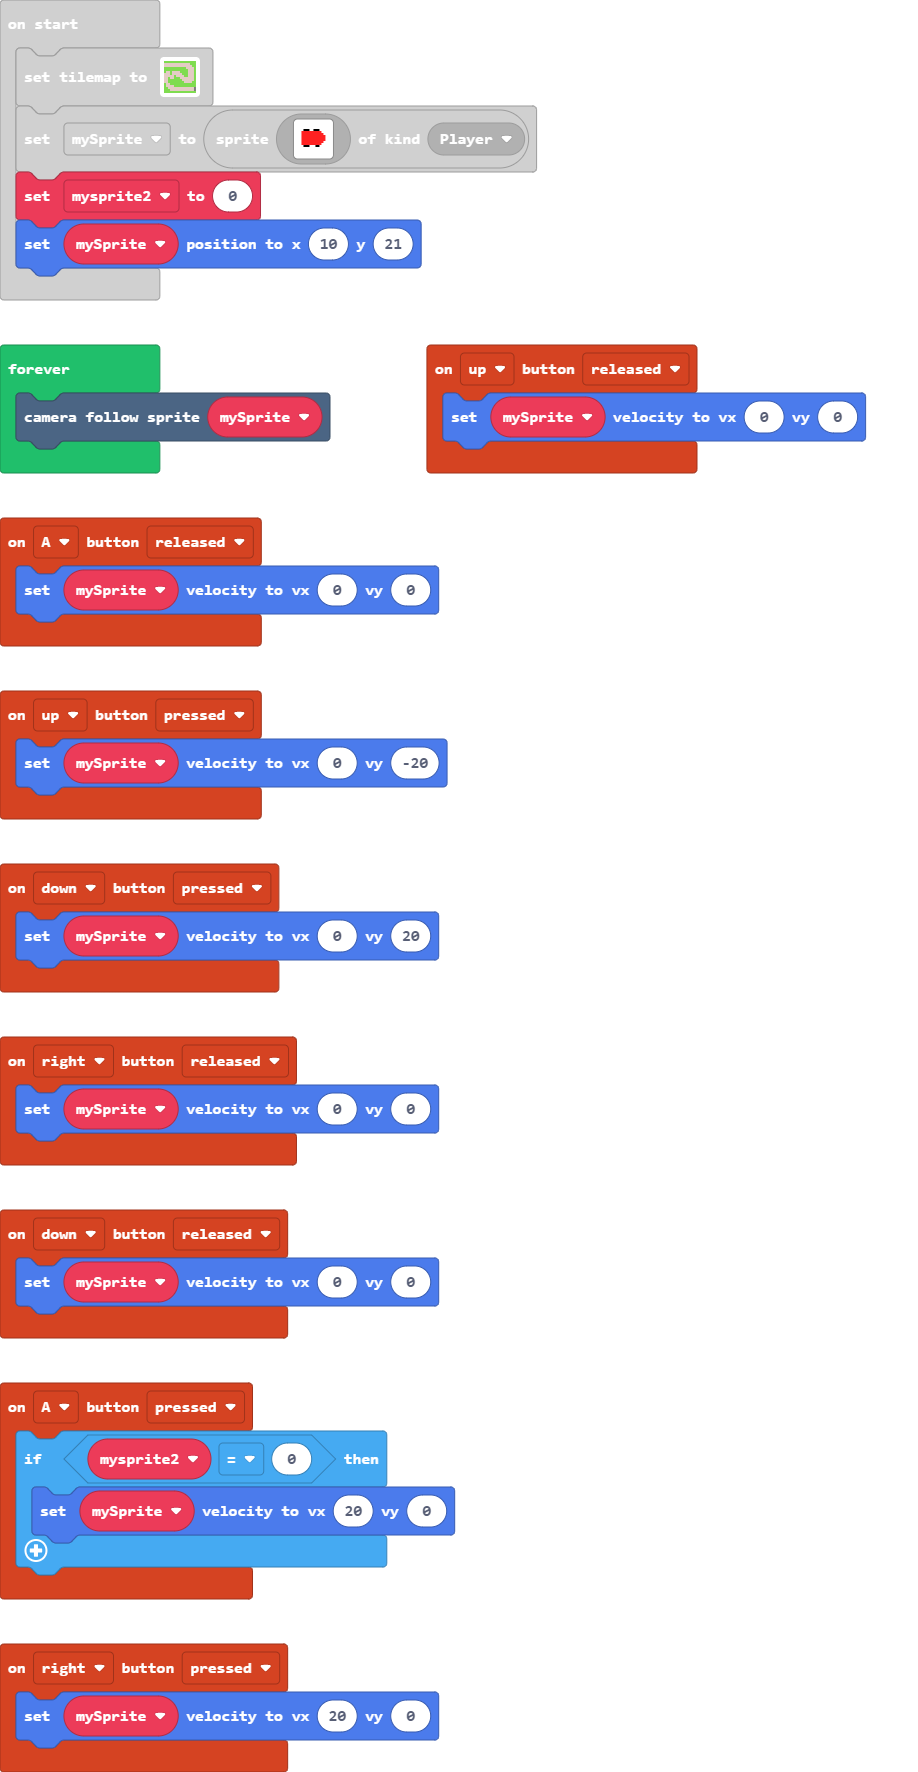
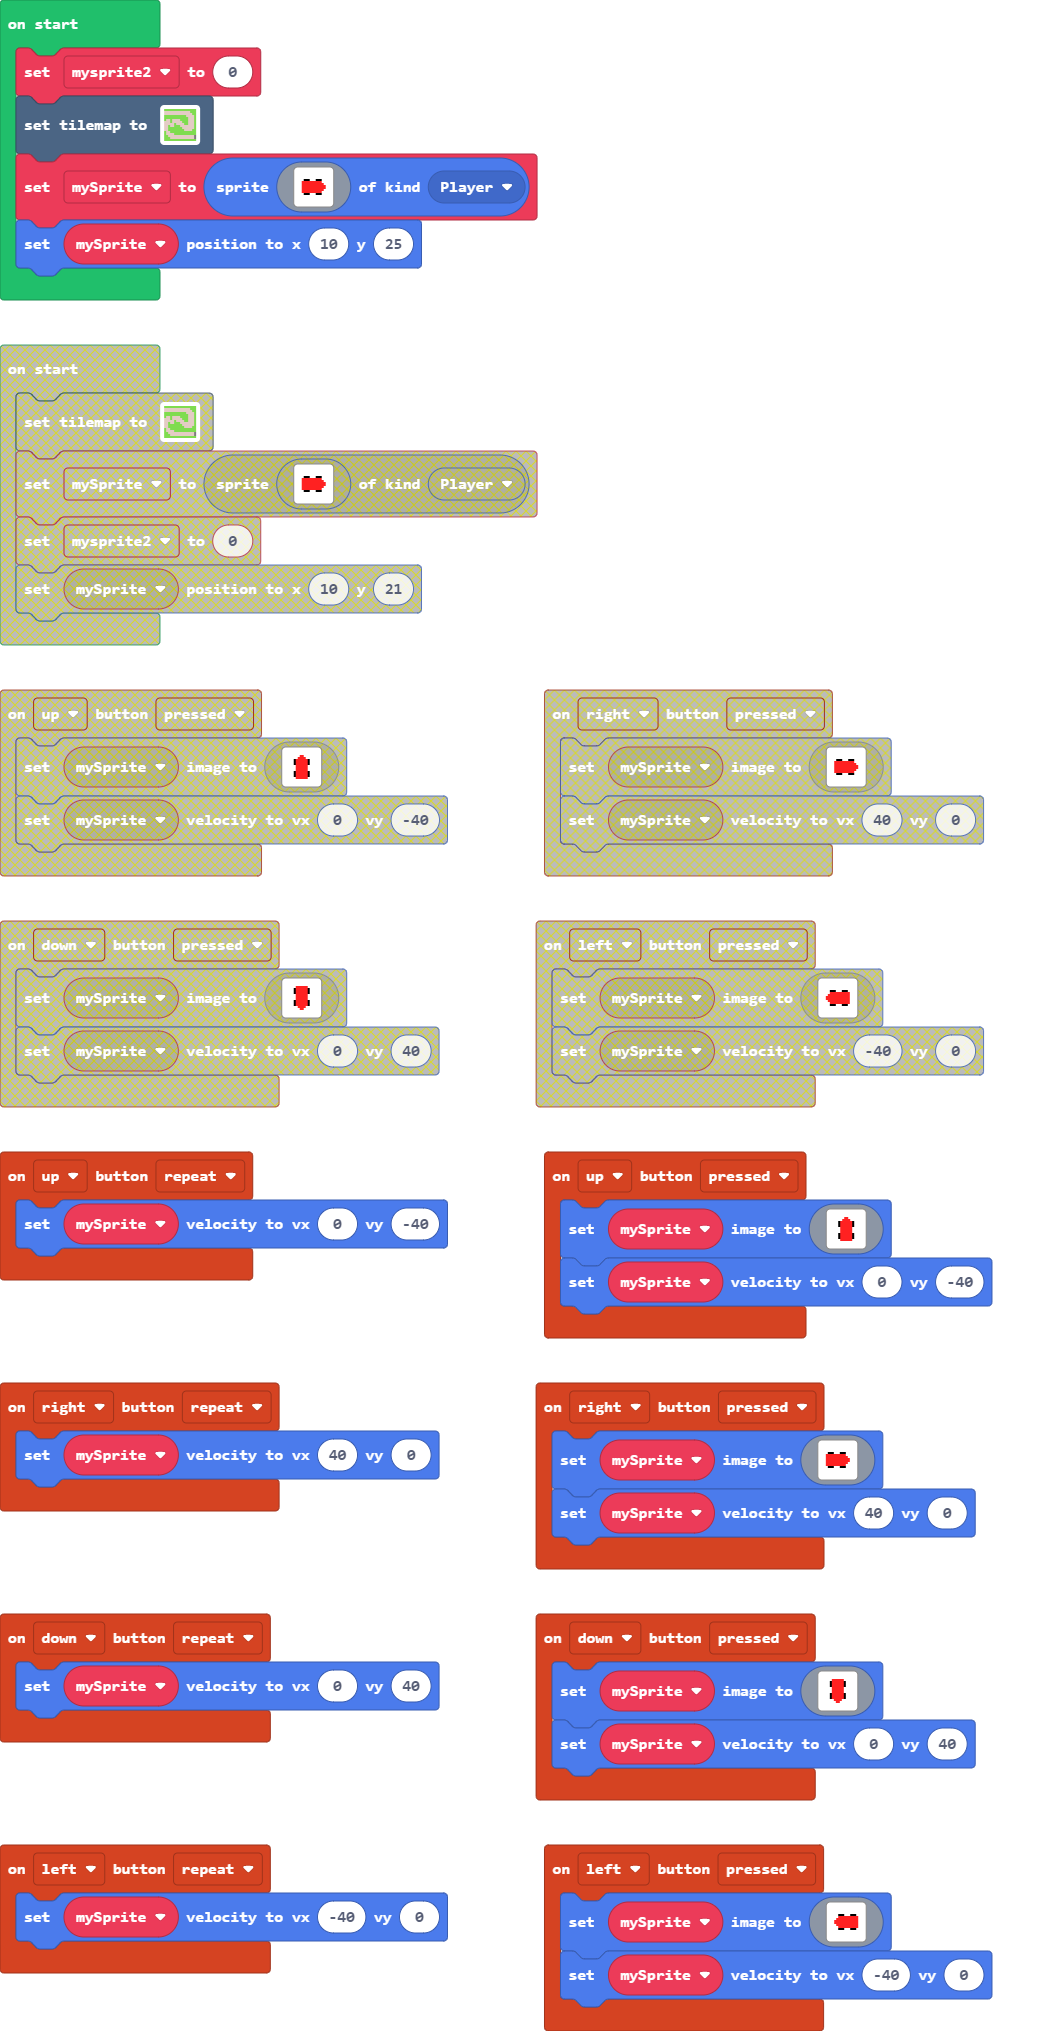
Added better controls to move character

diff --git a/main.ts b/main.ts
@@ -19,8 +19,14 @@ controller.up.onEvent(ControllerButtonEvent.Pressed, function () {
         `)
     mySprite.setVelocity(0, -40)
 })
+controller.up.onEvent(ControllerButtonEvent.Repeated, function () {
+    mySprite.setVelocity(0, -40)
+})
 controller.down.onEvent(ControllerButtonEvent.Released, function () {
     mySprite.setVelocity(0, 0)
+})
+controller.right.onEvent(ControllerButtonEvent.Repeated, function () {
+    mySprite.setVelocity(40, 0)
 })
 controller.left.onEvent(ControllerButtonEvent.Pressed, function () {
     mySprite.setImage(img`
@@ -73,6 +79,9 @@ controller.right.onEvent(ControllerButtonEvent.Pressed, function () {
 controller.up.onEvent(ControllerButtonEvent.Released, function () {
     mySprite.setVelocity(0, 0)
 })
+controller.down.onEvent(ControllerButtonEvent.Repeated, function () {
+    mySprite.setVelocity(0, 40)
+})
 controller.down.onEvent(ControllerButtonEvent.Pressed, function () {
     mySprite.setImage(img`
         . . . . . . . . . . . . . . . . 
@@ -94,25 +103,12 @@ controller.down.onEvent(ControllerButtonEvent.Pressed, function () {
         `)
     mySprite.setVelocity(0, 40)
 })
+controller.left.onEvent(ControllerButtonEvent.Repeated, function () {
+    mySprite.setVelocity(-40, 0)
+})
 let mySprite: Sprite = null
-tiles.setTilemap(tiles.createTilemap(hex`1000100003030303030303030303030303030303010101010101010101010101010303030101010101010101010101010101030303030303030303030303030101010103030303030303030303030303010101030301010301010101030303030101010301010103010101010103030301010103010101010103010101010303010101030101030101030303010101010101010301010303030303030301010101010103010103030303030303030101010103030301010303030303030303030303030303010101010303030303030303030303030301010101010101010101010101020303030101010101010101010101010203030303030303030303030303030303`, img`
-    2 2 2 2 2 2 2 2 2 2 2 2 2 . . . 
-    . . . . . . . . . . . . . 2 . . 
-    . . . . . . . . . . . . . . 2 . 
-    2 2 2 2 2 2 . 2 2 2 2 . . . . 2 
-    2 2 2 2 2 2 . 2 2 2 2 2 . . . 2 
-    2 . . 2 . . . . 2 2 2 2 . . . 2 
-    . . . 2 . . . . . 2 2 2 . . . 2 
-    . . . . . 2 . . . . 2 2 . . . 2 
-    . . 2 . . 2 2 2 . . . . . . . 2 
-    . . 2 2 2 2 . 2 2 . . . . . . 2 
-    . . 2 2 . . . . 2 2 . . . . 2 . 
-    2 . . 2 2 2 2 2 . . . . . . . . 
-    2 . . . . 2 2 2 2 2 2 2 2 2 2 2 
-    2 2 . . . . . . . . . . . . . 2 
-    2 . 2 . . . . . . . . . . . . 2 
-    . . . 2 2 2 2 2 2 2 2 2 2 2 2 2 
-    `, [myTiles.transparency16,sprites.castle.tilePath5,myTiles.tile1,sprites.castle.tileGrass1], TileScale.Sixteen))
+let mysprite2 = 0
+tiles.setTilemap(tilemap`level_0`)
 mySprite = sprites.create(img`
     . . . . . . . . . . . . . . . . 
     . . . . . . . . . . . . . . . . 
@@ -131,8 +127,7 @@ mySprite = sprites.create(img`
     . . . . . . . . . . . . . . . . 
     . . . . . . . . . . . . . . . . 
     `, SpriteKind.Player)
-let mysprite2 = 0
-mySprite.setPosition(10, 21)
+mySprite.setPosition(10, 25)
 forever(function () {
     scene.cameraFollowSprite(mySprite)
 })

diff --git a/tilemap.g.ts b/tilemap.g.ts
@@ -7,5 +7,47 @@ namespace myTiles {
     //% fixedInstance jres blockIdentity=images._tile
     export const tile2 = image.ofBuffer(hex``);
 
+    helpers.registerTilemapFactory(function(name: string) {
+        switch(helpers.stringTrim(name)) {
+            case "level": return tiles.createTilemap(hex`1000100003030303030303030303030303030303010101010101010101010101010303030101010101010101010101010101030303030303030303030303030101010103030303030303030303030303010101030301010301010101030303030101010301010103010101010103030301010103010101010103010101010303010101030101030101030303010101010101010301010303030303030301010101010103010103030303030303030101010103030301010303030303030303030303030303010101010303030303030303030303030301010101010101010101010101020303030101010101010101010101010203030303030303030303030303030303`, img`
+2 2 2 2 2 2 2 2 2 2 2 2 2 . . . 
+. . . . . . . . . . . . . 2 . . 
+. . . . . . . . . . . . . . 2 . 
+2 2 2 2 2 2 . 2 2 2 2 . . . . 2 
+2 2 2 2 2 2 . 2 2 2 2 2 . . . 2 
+2 . . 2 . . . . 2 2 2 2 . . . 2 
+. . . 2 . . . . . 2 2 2 . . . 2 
+. . . . . 2 . . . . 2 2 . . . 2 
+. . 2 . . 2 2 2 . . . . . . . 2 
+. . 2 2 2 2 . 2 2 . . . . . . 2 
+. . 2 2 . . . . 2 2 . . . . 2 . 
+2 . . 2 2 2 2 2 . . . . . . . . 
+2 . . . . 2 2 2 2 2 2 2 2 2 2 2 
+2 2 . . . . . . . . . . . . . 2 
+2 . 2 . . . . . . . . . . . . 2 
+. . . 2 2 2 2 2 2 2 2 2 2 2 2 2 
+`, [myTiles.transparency16,sprites.castle.tilePath5,myTiles.tile1,sprites.castle.tileGrass1], TileScale.Sixteen)
+            case "level_0": return tiles.createTilemap(hex`1000100003030303030303030303030303030303010101010101010101010101010303030101010101010101010101010101030303030303030303030303030101010103030303030303030303030303010101030301010301010101030303030101010301010103010101010103030301010103010101010103010101010303010101030101030101030303010101010101010301010303030303030301010101010103010103030303030303030101010103030301010303030303030303030303030303010101010303030303030303030303030301010101010101010101010101020303030101010101010101010101010203030303030303030303030303030303`, img`
+2 2 2 2 2 2 2 2 2 2 2 2 2 . . . 
+. . . . . . . . . . . . . 2 . . 
+. . . . . . . . . . . . . . 2 . 
+2 2 2 2 2 2 . 2 2 2 2 . . . . 2 
+2 2 2 2 2 2 . 2 2 2 2 2 . . . 2 
+2 . . 2 . . . . 2 2 2 2 . . . 2 
+. . . 2 . . . . . 2 2 2 . . . 2 
+. . . . . 2 . . . . 2 2 . . . 2 
+. . 2 . . 2 2 2 . . . . . . . 2 
+. . 2 2 2 2 . 2 2 . . . . . . 2 
+. . 2 2 . . . . 2 2 . . . . 2 . 
+2 . . 2 2 2 2 2 . . 2 2 2 2 . . 
+2 . . . . 2 2 2 2 2 2 2 2 2 2 2 
+2 2 . . . . . . . . . . . . . 2 
+2 . 2 . . . . . . . . . . . . 2 
+. . . 2 2 2 2 2 2 2 2 2 2 2 2 2 
+`, [myTiles.transparency16,sprites.castle.tilePath5,myTiles.tile1,sprites.castle.tileGrass1], TileScale.Sixteen)
+        }
+        return null;
+    })
+
 }
 // Auto-generated code. Do not edit.
